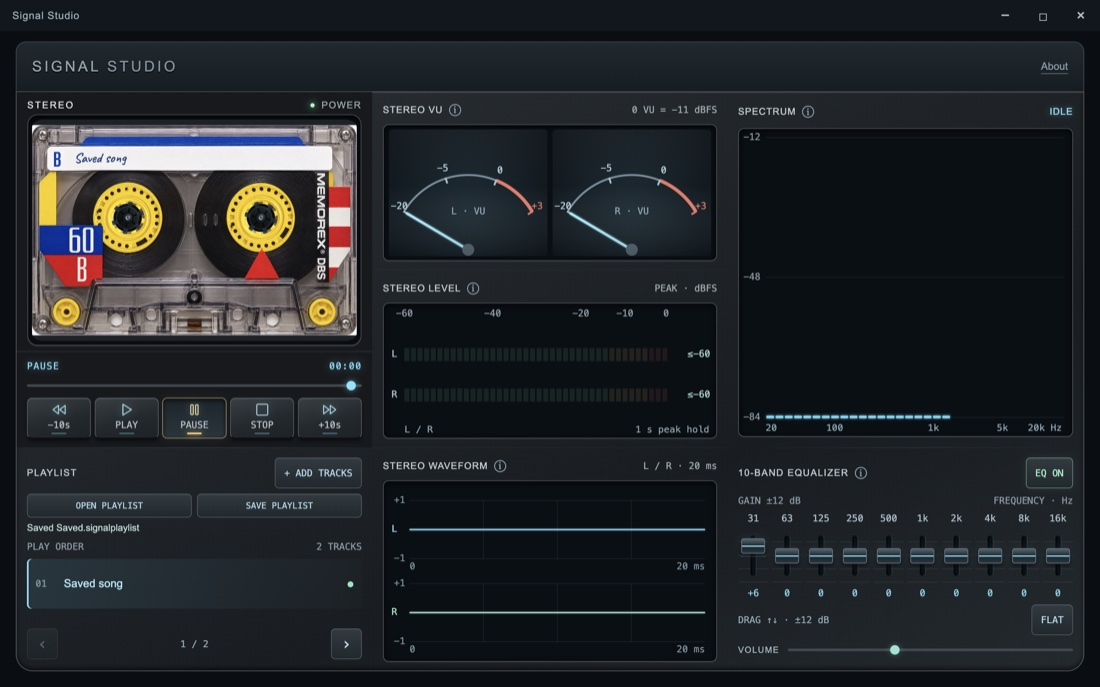
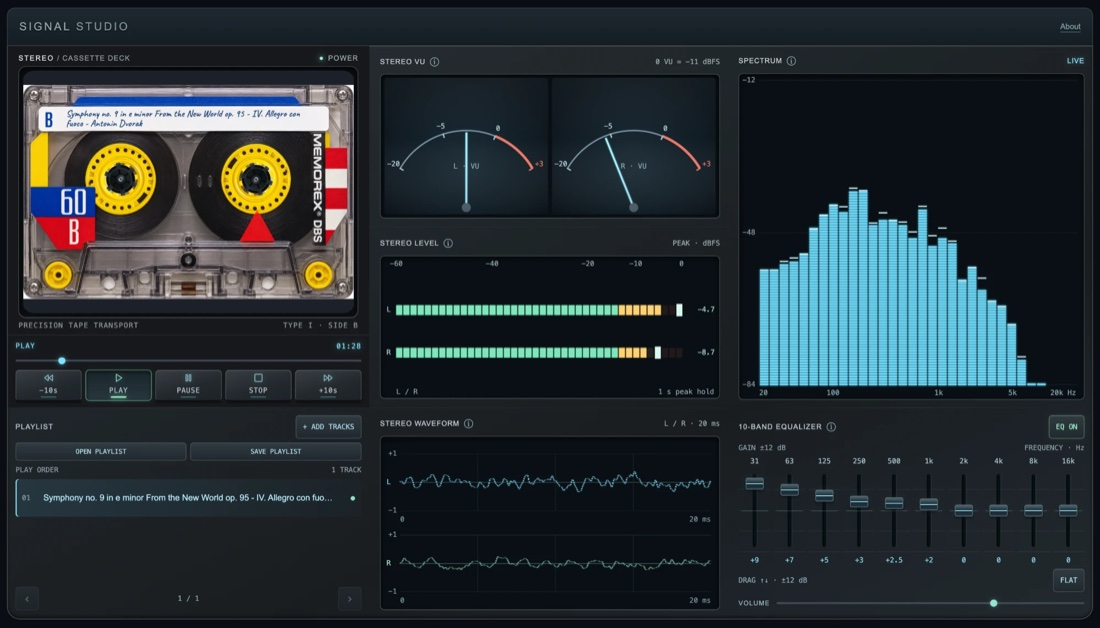
Signal Studio page: new screenshot, playing Dvořák with the equalizer in use

diff --git a/tools/teaching/signal_studio_download.html b/tools/teaching/signal_studio_download.html
@@ -177,8 +177,8 @@
   </div>
 
   <div class="preview">
-    <img src="signal_studio_preview.jpg" width="1100" alt="The Signal Studio window: a clear cassette with yellow reels and playback buttons on the left, stereo VU meters, peak level bars and waveforms in the middle, and the spectrum, ten-band equalizer and volume on the right">
-    <p>Signal Studio on a Mac. On narrower windows the panels rearrange into two columns or one.</p>
+    <img src="signal_studio_preview.jpg" width="1100" alt="Signal Studio playing the fourth movement of Dvořák's New World Symphony: the title handwritten on the cassette, VU needles and peak bars near −5 dBFS, live left and right waveforms, a spectrum strongest between 100 Hz and 1 kHz, and the equalizer boosting the low bands">
+    <p>Signal Studio playing Dvořák's <em>New World</em> Symphony, with the low bands of the equalizer boosted. On narrower windows the panels rearrange into two columns or one.</p>
   </div>
 
   <section id="about">
